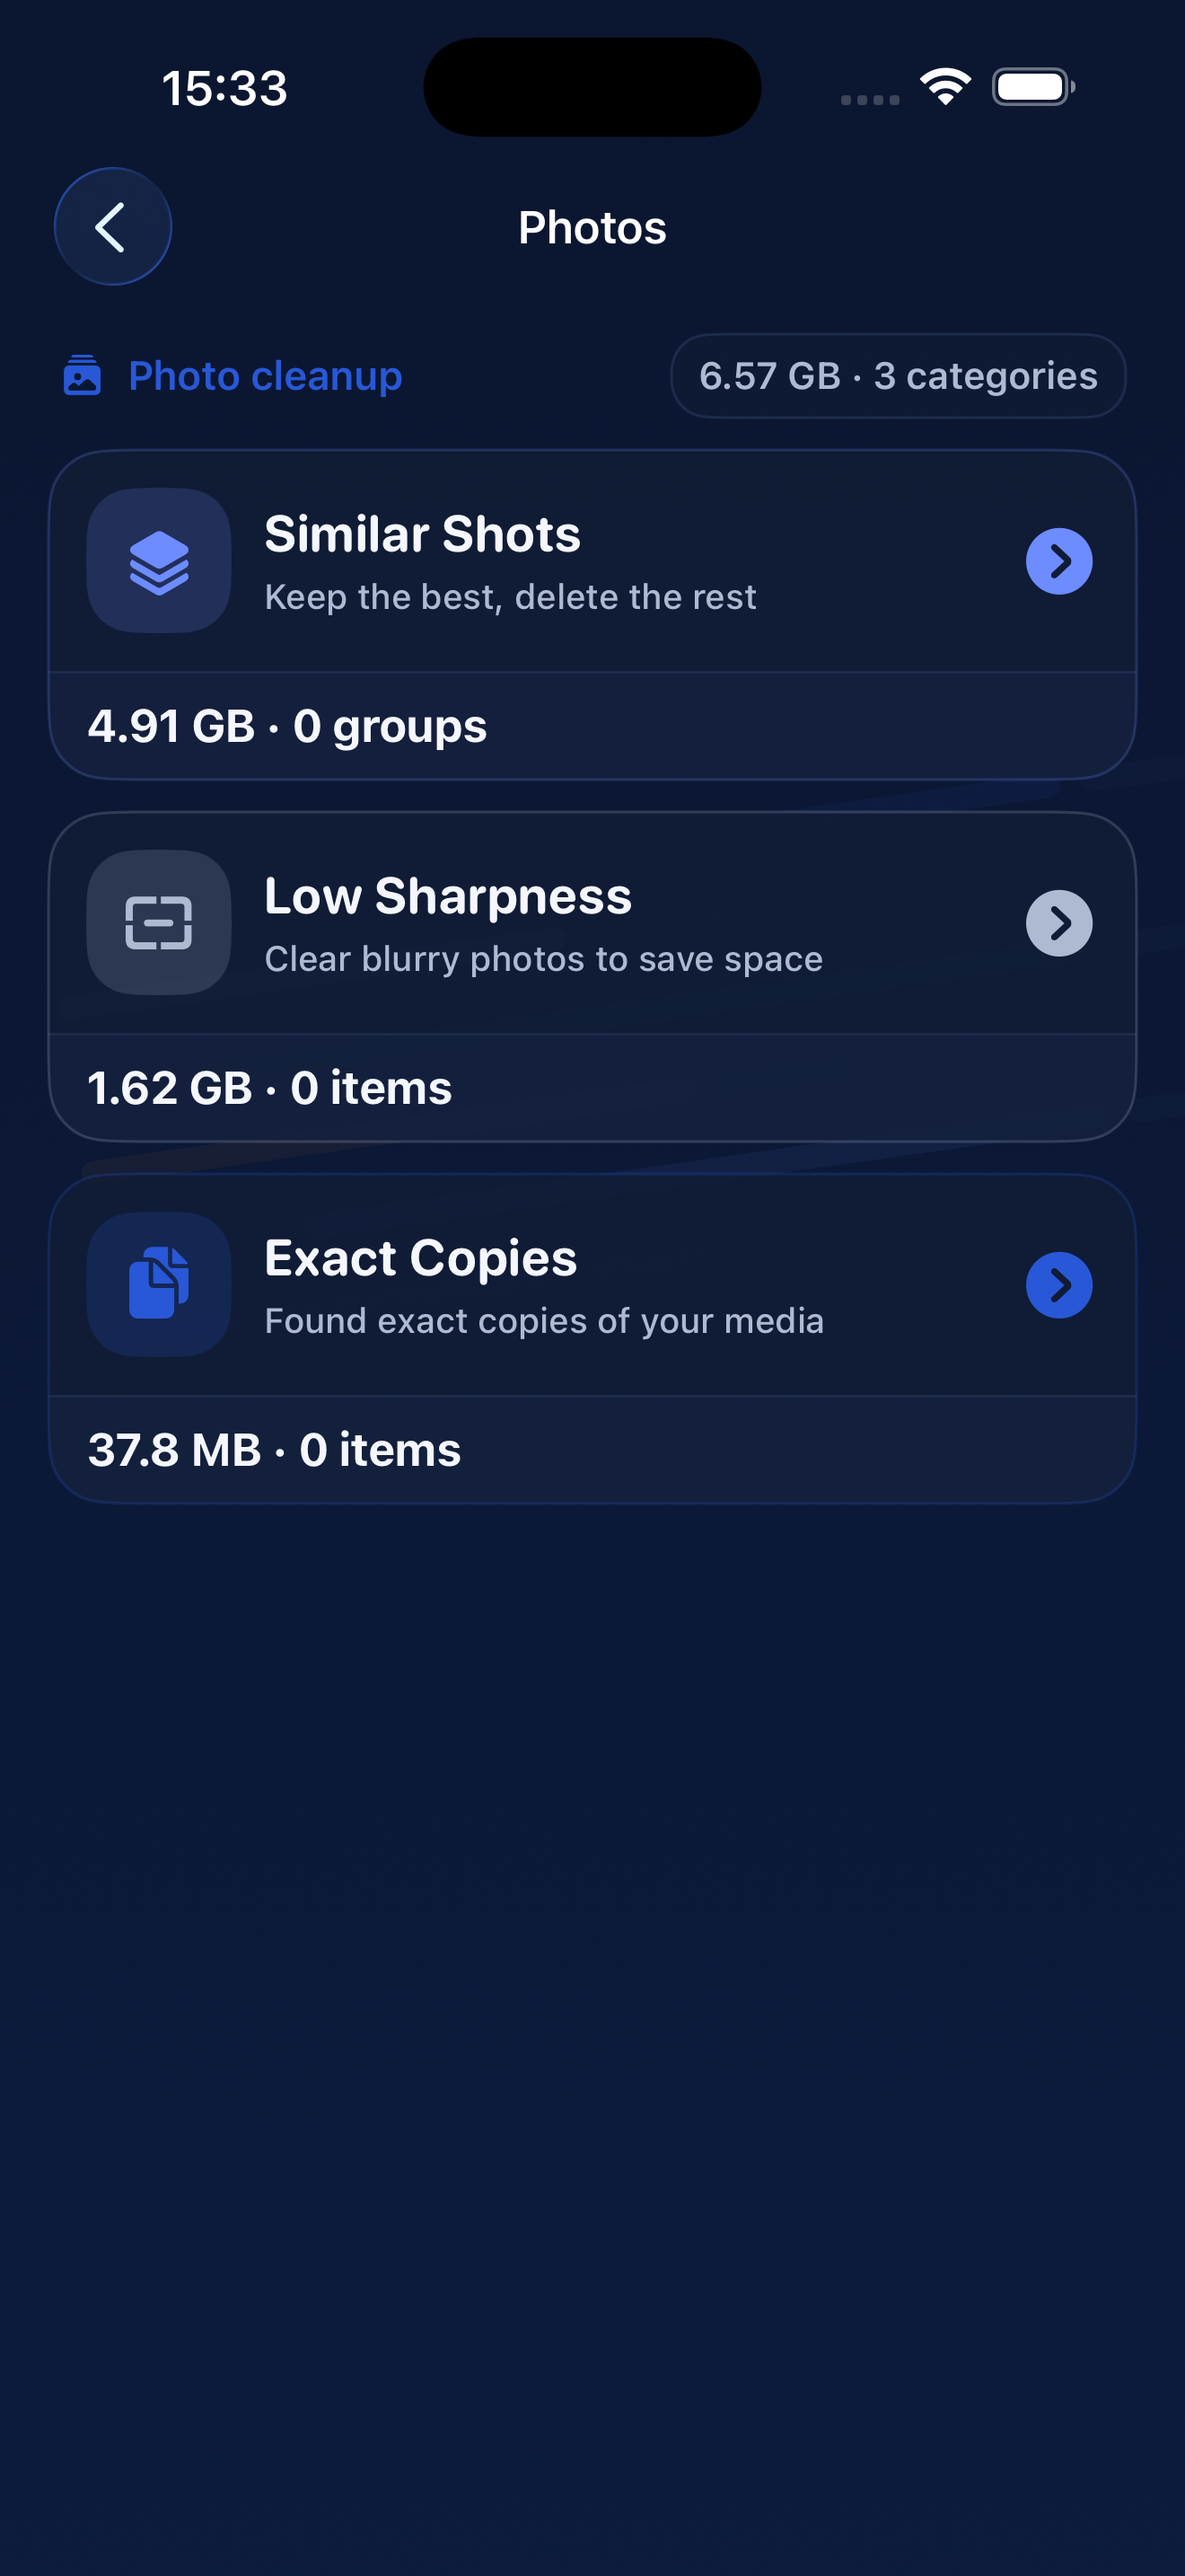
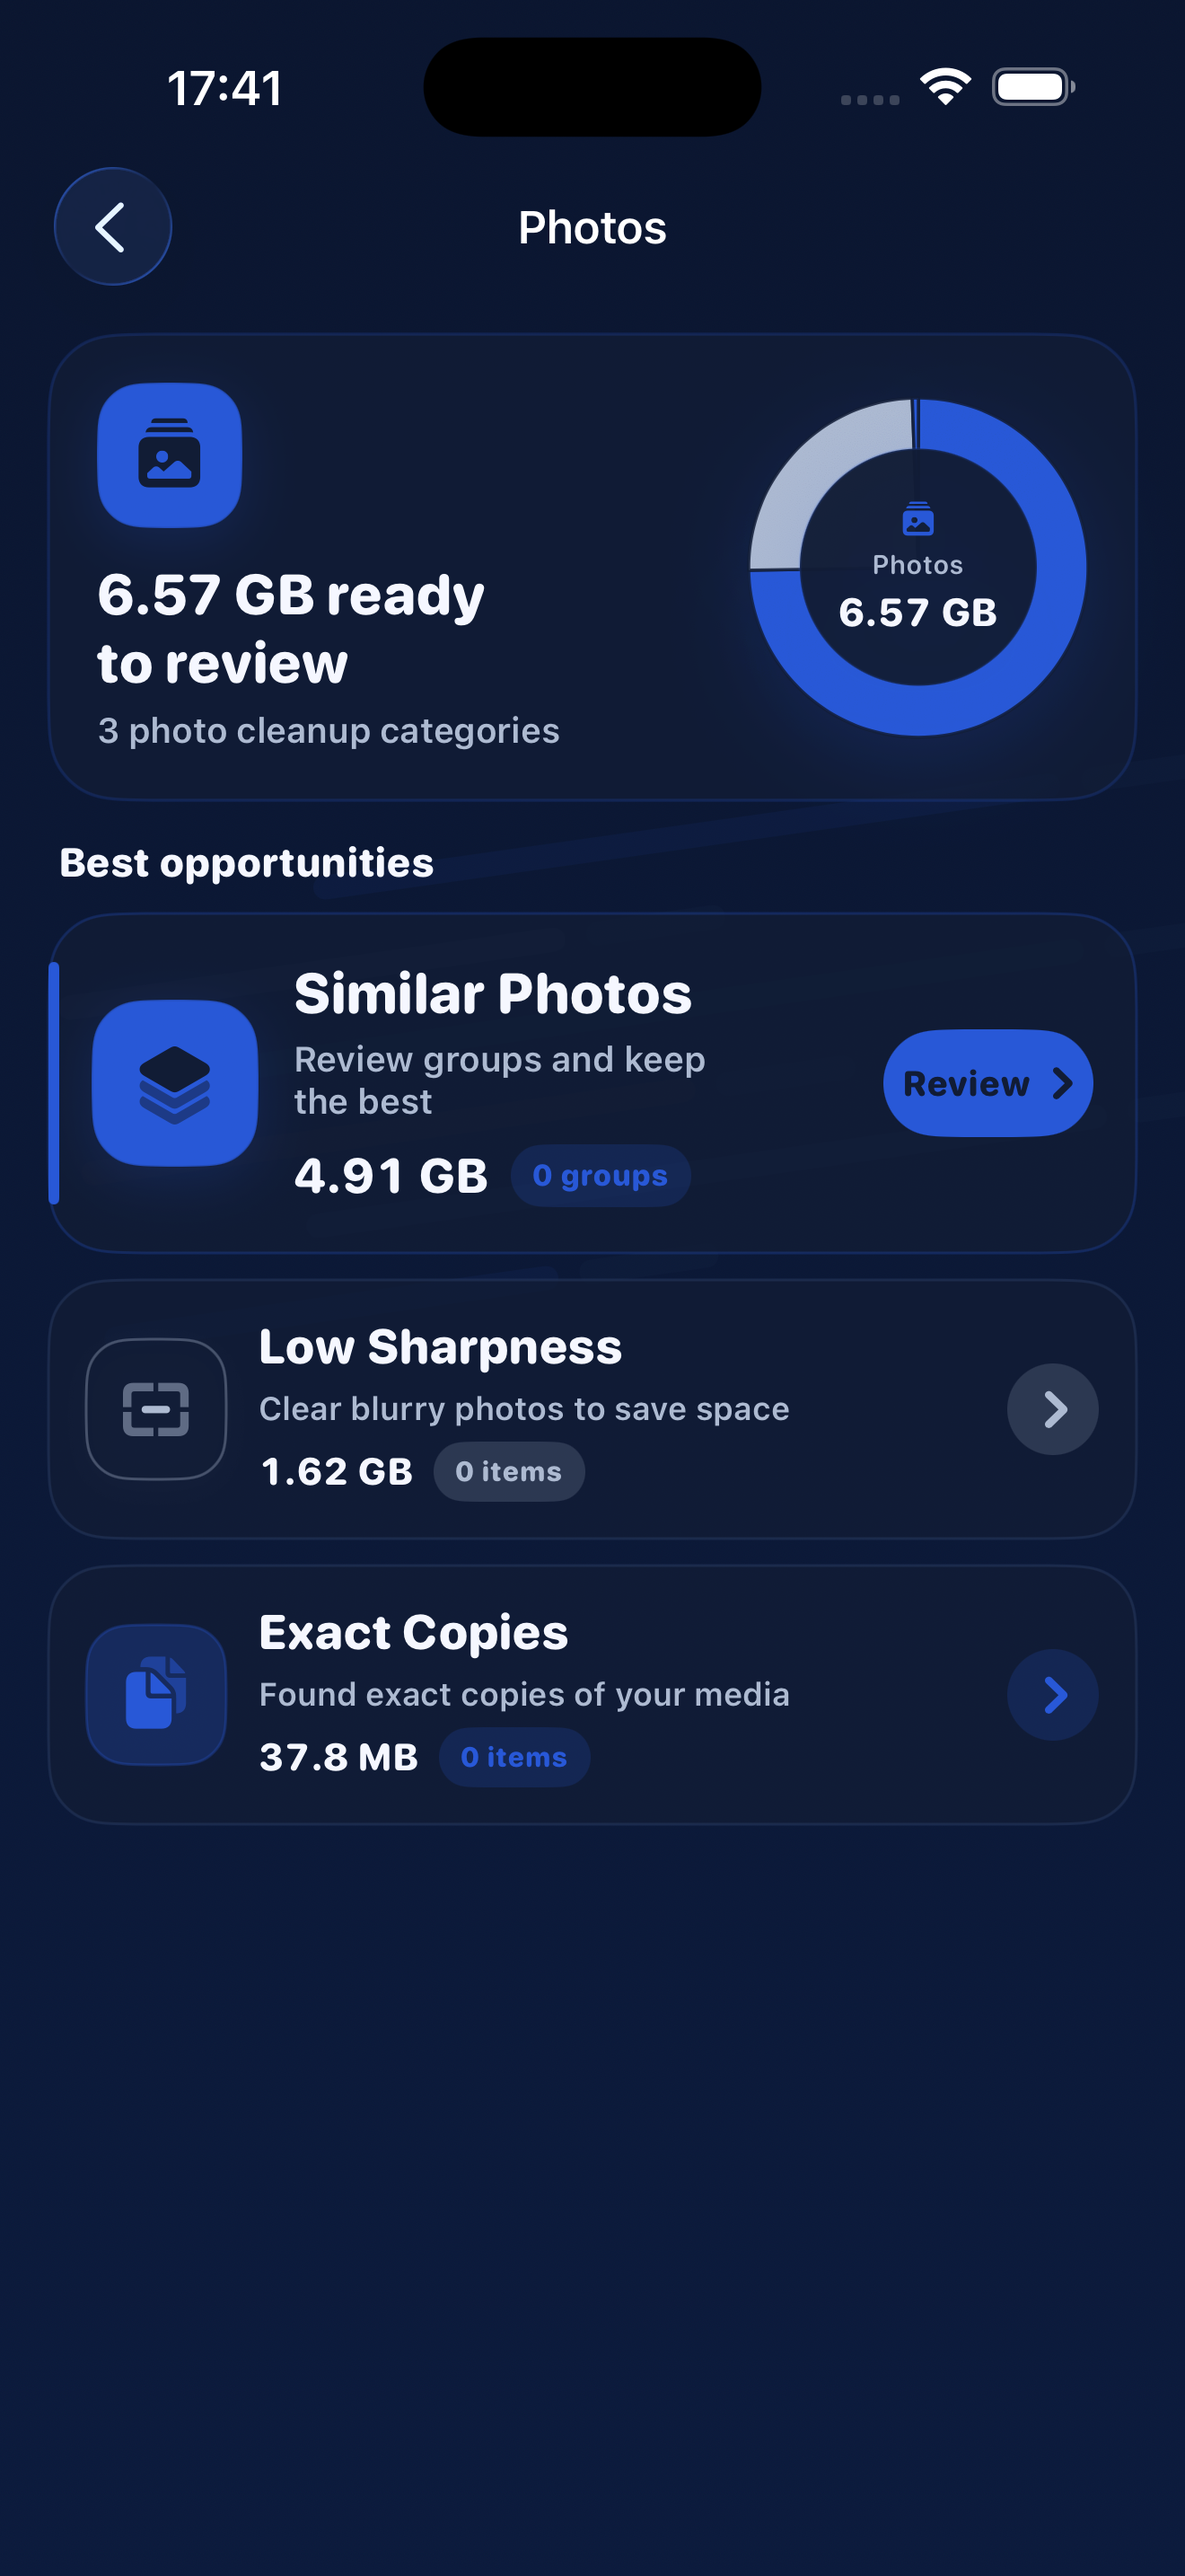
Refresh Photos screenshots

diff --git a/index.html b/index.html
@@ -1054,7 +1054,7 @@
                         <img src="./assets/screenshots/dashboard-dark.png" alt="StorageCleaner dashboard showing video, photo, and contacts cleanup categories">
                     </div>
                     <div class="phone-frame phone-photos">
-                        <img src="./assets/screenshots/photos-dark.png" alt="StorageCleaner photos cleanup categories">
+                        <img src="./assets/screenshots/photos-dark.png" alt="StorageCleaner Photos screen with review-ready cleanup categories">
                     </div>
                     <div class="phone-frame phone-videos">
                         <img src="./assets/screenshots/videos-dark.png" alt="StorageCleaner videos review with compression and delete actions">
@@ -1087,9 +1087,9 @@
 
                     <div class="proof-stack">
                         <article class="shot-card">
-                            <img src="./assets/screenshots/photos-dark.png" alt="Photos cleanup screenshot with similar shots, low sharpness, and screenshots categories" loading="lazy">
+                            <img src="./assets/screenshots/photos-dark.png" alt="Photos cleanup screenshot with Similar Photos and review-ready category cards" loading="lazy">
                             <h3>Review photo cleanup by category.</h3>
-                            <p>Similar shots, low-sharpness photos, and screenshots are separated into review-first flows.</p>
+                            <p>Similar Photos, low-sharpness photos, and other cleanup categories are separated into review-first flows.</p>
                         </article>
 
                         <article class="shot-card">
